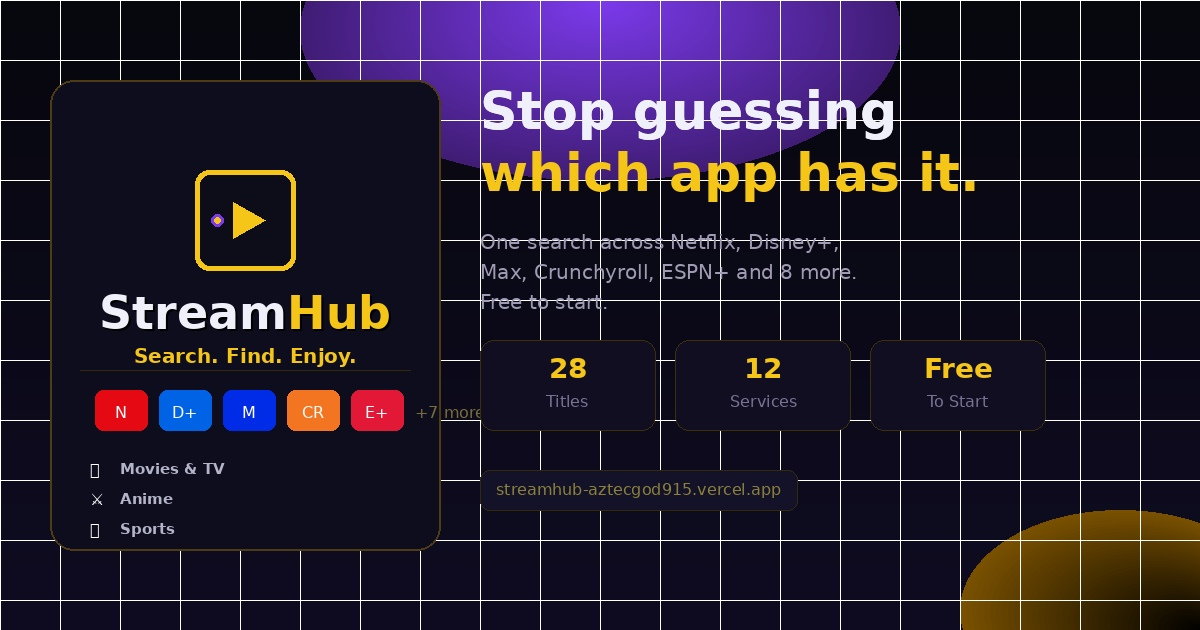
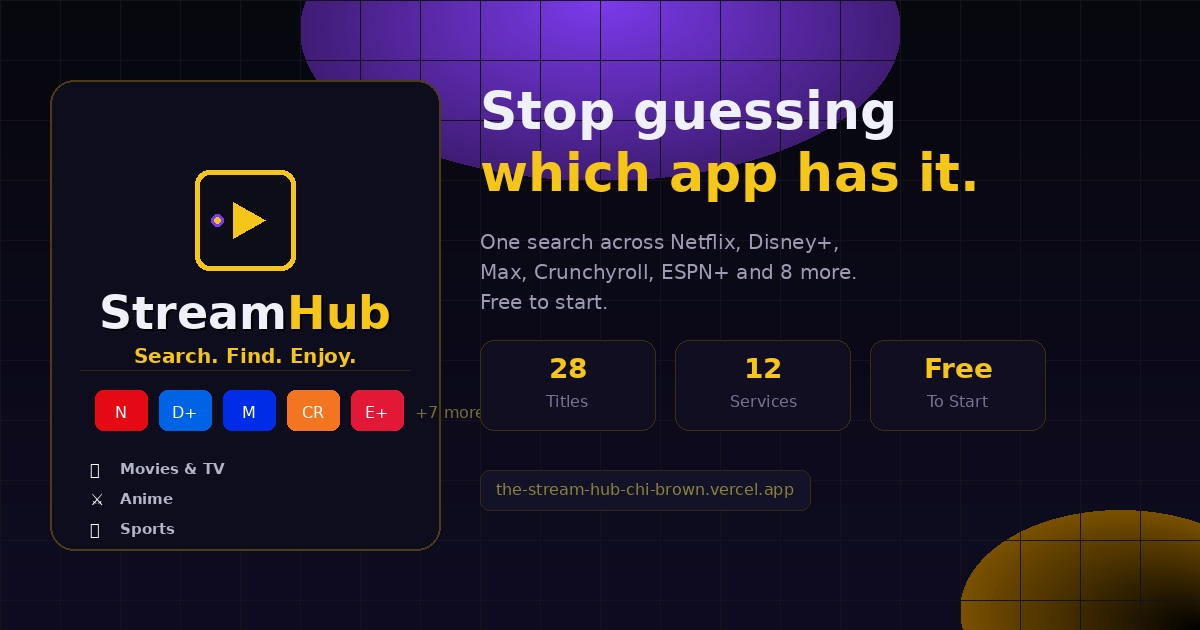
Fix URLs to correct Vercel domain

diff --git a/public/landing.html b/public/landing.html
@@ -8,15 +8,15 @@
   <!-- Social Media Preview (Open Graph) -->
   <meta property="og:title" content="StreamHub — Search. Find. Enjoy." />
   <meta property="og:description" content="One app to rule all your streaming services. Search movies, anime & sports across Netflix, Disney+, Max, Crunchyroll and more. Free to start." />
-  <meta property="og:image" content="https://streamhub-aztecgod915.vercel.app/og-image.jpg" />
-  <meta property="og:url" content="https://streamhub-aztecgod915.vercel.app" />
+  <meta property="og:image" content="https://the-stream-hub-chi-brown.vercel.app/og-image.jpg" />
+  <meta property="og:url" content="https://the-stream-hub-chi-brown.vercel.app" />
   <meta property="og:type" content="website" />
 
   <!-- Twitter Card -->
   <meta name="twitter:card" content="summary_large_image" />
   <meta name="twitter:title" content="StreamHub — Search. Find. Enjoy." />
   <meta name="twitter:description" content="One app to rule all your streaming services. Search movies, anime & sports across Netflix, Disney+, Max, Crunchyroll and more." />
-  <meta name="twitter:image" content="https://streamhub-aztecgod915.vercel.app/og-image.jpg" />
+  <meta name="twitter:image" content="https://the-stream-hub-chi-brown.vercel.app/og-image.jpg" />
 
   <link rel="preconnect" href="https://fonts.googleapis.com" />
   <link href="https://fonts.googleapis.com/css2?family=Syne:wght@400;700;800&family=Plus+Jakarta+Sans:wght@300;400;500;600&display=swap" rel="stylesheet" />
@@ -308,7 +308,7 @@
           <div class="mock-dot" style="background:#ef4444"></div>
           <div class="mock-dot" style="background:#f59e0b"></div>
           <div class="mock-dot" style="background:#10b981"></div>
-          <div class="mock-url">streamhub-aztecgod915.vercel.app</div>
+          <div class="mock-url">the-stream-hub-chi-brown.vercel.app</div>
         </div>
         <div class="mock-content" id="mockCards"></div>
       </div>